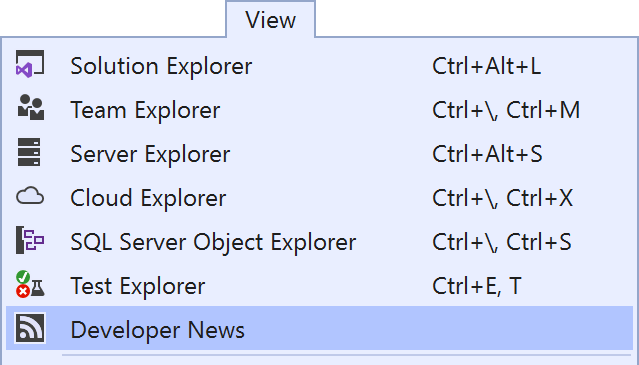
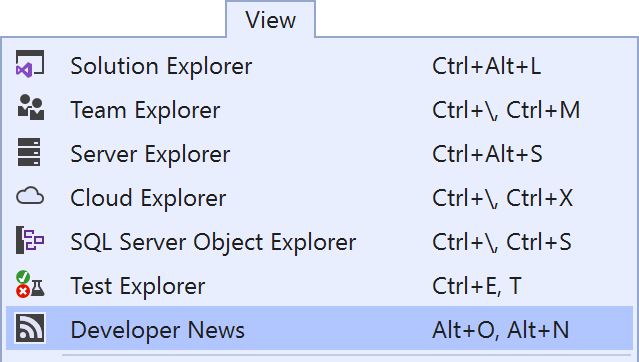
Added keybindings Fixes #4

diff --git a/src/DeveloperNews/source.extension.cs b/src/DeveloperNews/source.extension.cs
@@ -9,7 +9,7 @@ namespace DeveloperNews
     {
         public const string Id = "36cfa8d9-bd14-4d32-a8a6-34133aa2309d";
         public const string Name = "Daily News";
-        public const string Description = @"Shows the developer news from the Visual Studio blog and other sources in a tool window inside Visual Studio.";
+        public const string Description = @"Shows the developer news from the Visual Studio blog and other sources in a tool window inside Visual Studio or your default browser.";
         public const string Language = "en-US";
         public const string Version = "0.5";
         public const string Author = "Mads Kristensen";

diff --git a/README.md b/README.md
@@ -2,7 +2,7 @@
 
 [![Build status](https://ci.appveyor.com/api/projects/status/2835p8bajgsg6lir?svg=true)](https://ci.appveyor.com/project/madskristensen/developernews)
 
-Shows the developer news from the Visual Studio blog and other sources in a tool window inside Visual Studio.
+Shows the developer news from the Visual Studio blog and other sources in a tool window inside Visual Studio or your default browser.
 
 Download this extension from the [Marketplace](https://marketplace.visualstudio.com/items?itemName=MadsKristensen.KnownMonikersExplorer)
 or get the [CI build](https://www.vsixgallery.com/extension/36cfa8d9-bd14-4d32-a8a6-34133aa2309d/).
@@ -15,6 +15,8 @@ or get the [CI build](https://www.vsixgallery.com/extension/36cfa8d9-bd14-4d32-a
 Open the *News* tool window from the *View* top level menu.
 
 ![View menu](art/view-menu.png)
+
+You can also use the keybord shortcut **Alt + O, Alt + N**. Think of it being short for **O**pen **N**ews.
 
 ## Design
 The *News* tool window looks great in any theme and looks like a built-in part of Visual Studio.
